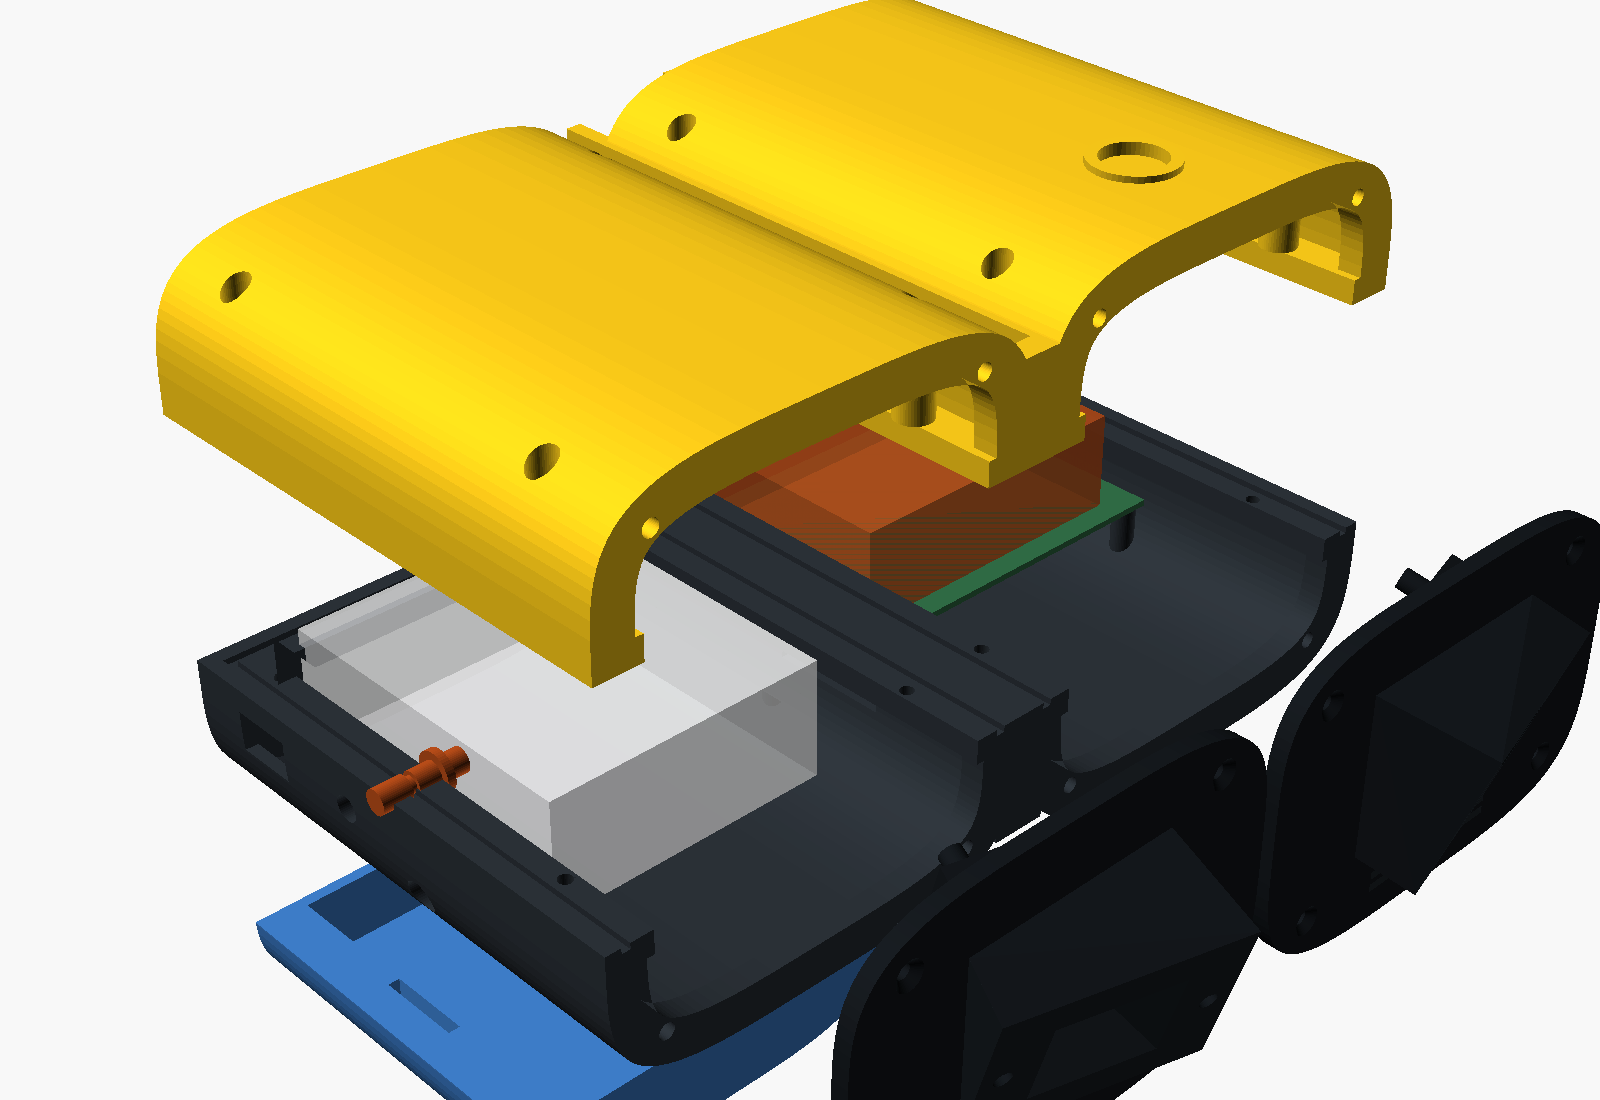
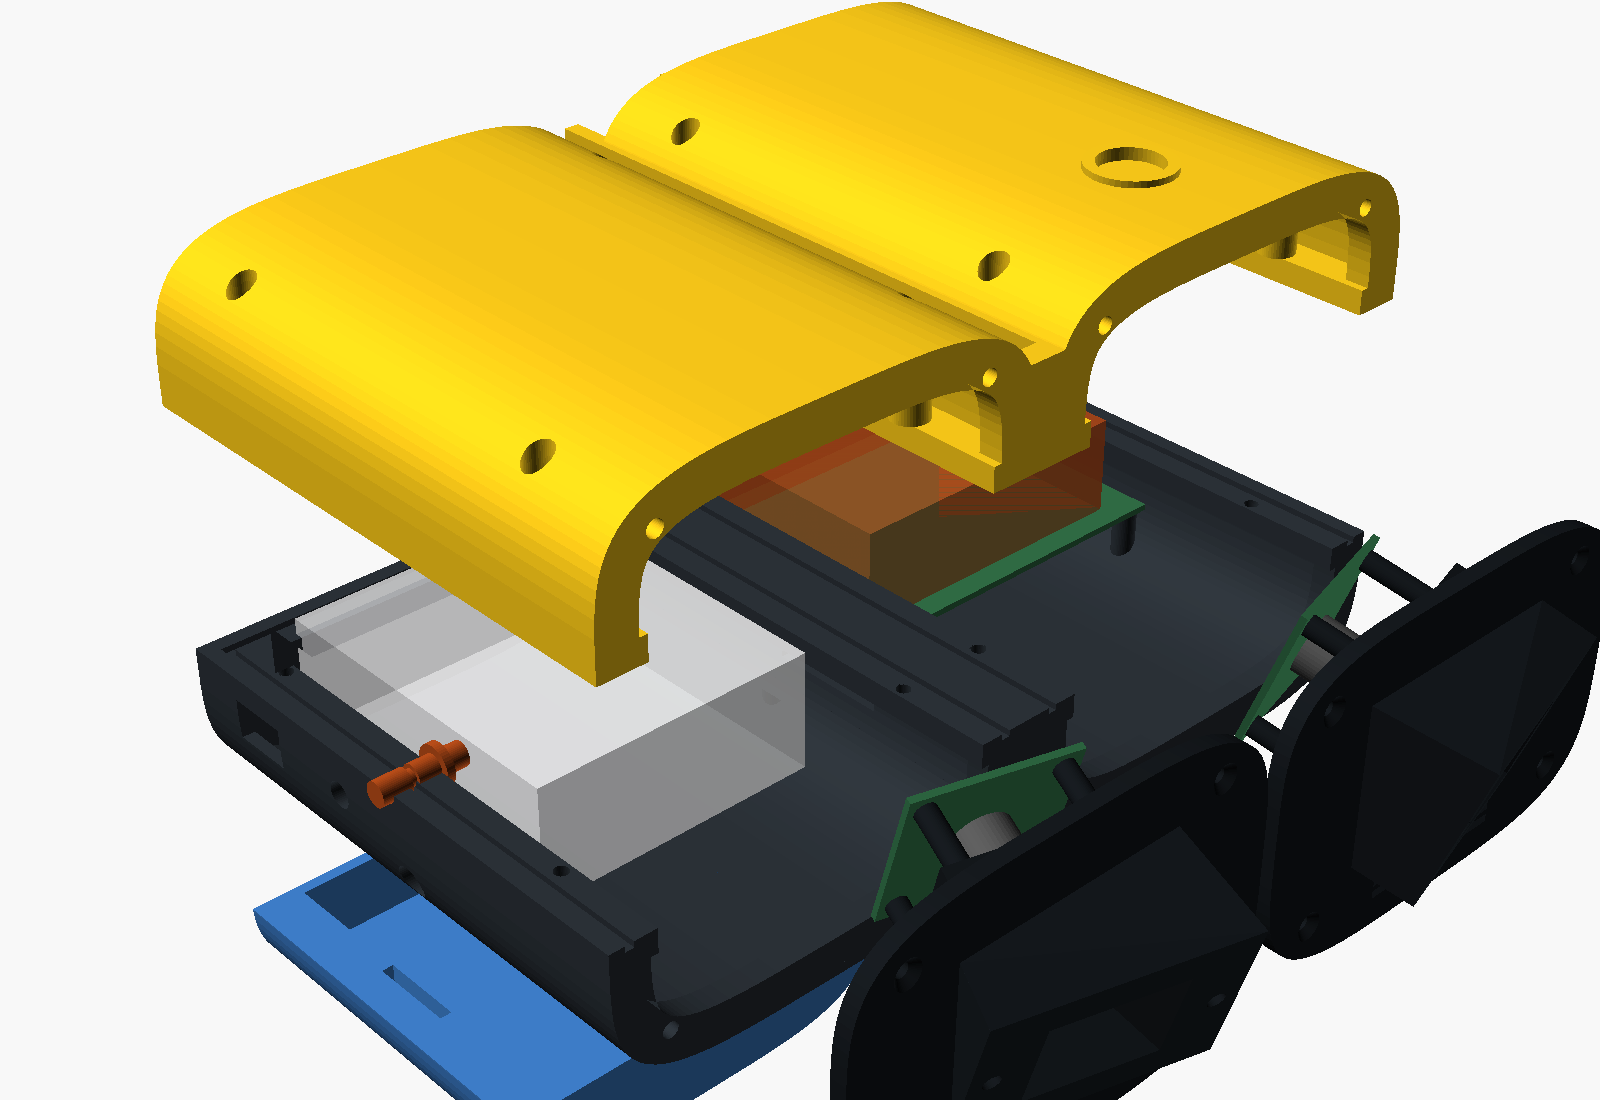
Fit the binocular enclosure to the Commonlands CIL358 5.8mm lens
The longer lens moves each camera board back on longer standoffs so the
glass stays behind the hood. Hoods flare for the wider 57 x 32 degree
view, the hood boss and screws move out to clear them, the body grows
6mm so the cool pod's camera board clears the battery, and the level
boss no longer intrudes into the lid.

Claude-Session: https://claude.ai/code/session_01FHYQy4hV3ZCwhzzwFnLpdn

diff --git a/hardware/enclosure-binocular/README.md b/hardware/enclosure-binocular/README.md
@@ -22,7 +22,7 @@ Export with `openscad -o base.stl base.scad`, and the same for each part. When y
 No separate visor. The hoods are the visors.
 
 - **Rain from above:** the body sits 4° tail-down, so rain on the pods runs backwards and never over the front. Rain that lands on a hood runs forward along its top. The top extends 8mm further forward than the bottom, so it drips clear of the opening. A small groove under the top lip stops drips creeping back inside onto the glass.
-- **Field of view:** each hood flares to stay just outside the 6mm lens's 50° × 29° view, with 1.5mm margin. A round hood that size would cut off the corners of the image.
+- **Field of view:** each hood flares to stay just outside the lens's view, with 1.5mm margin. It's set for the Commonlands CIL358 5.8mm lens, about 57° × 32° on the IMX415. A round hood that size would cut off the corners of the image.
 - **Bench testing:** take the hoods off when using the stock 2.95mm lens. Its 75° view is wider than the hood.
 
 ## Bought parts
@@ -49,7 +49,7 @@ These values in `bino.scad` are placeholders:
 - **Heatsink:** height with the fan fitted (`heatsink_h`)
 - **Bank:** size, plus where its button and USB-C port sit (`bank_w`, `bank_l`, `bank_h`, `bank_button_y`, `bank_port_y`)
 - **Camera board:** size, hole spacing and lens holder footprint (`cam_board`, `cam_holes`, `cam_holder_w`)
-- **Lens:** front element radius, barrel, and how far the glass sits ahead of the nose plate once focused (`lens_r`, `lens_barrel_d`, `lens_front`)
+- **Lens:** how much longer the CIL358 is than the stock lens once both are focused (`lens_extra`, set to 10mm), its front cap diameter (`lens_cap_d`, set to 18mm), and how far the glass sits ahead of the nose plate (`lens_front`). A longer lens pushes the camera board further back, so the glass stays in the same place behind the hood. Up to about 14mm extra fits; at 15mm the cool pod's camera board touches the battery.
 - **Ribbons:** camera 2's ribbon crosses to the board through the tunnel under the channel. It needs about 15cm.
 
 ## Fit at the placeholder sizes
@@ -58,4 +58,4 @@ These values in `bino.scad` are placeholders:
 - **Room above the heatsink:** 26mm.
 - **Cradle:** walls 4.6mm thick at the pocket floor.
 - **Battery:** sits 4mm above the lid split, with about 30mm free above it.
-- **Size:** 228 × 136 × 77.5mm including the bubble-level seat. The hoods reach about 36mm ahead of the nose plates.
+- **Size:** 228 × 142 × 77.5mm including the bubble-level seat. The body grew 6mm longer to make room for the longer lenses. The hoods reach about 36mm ahead of the nose plates.
